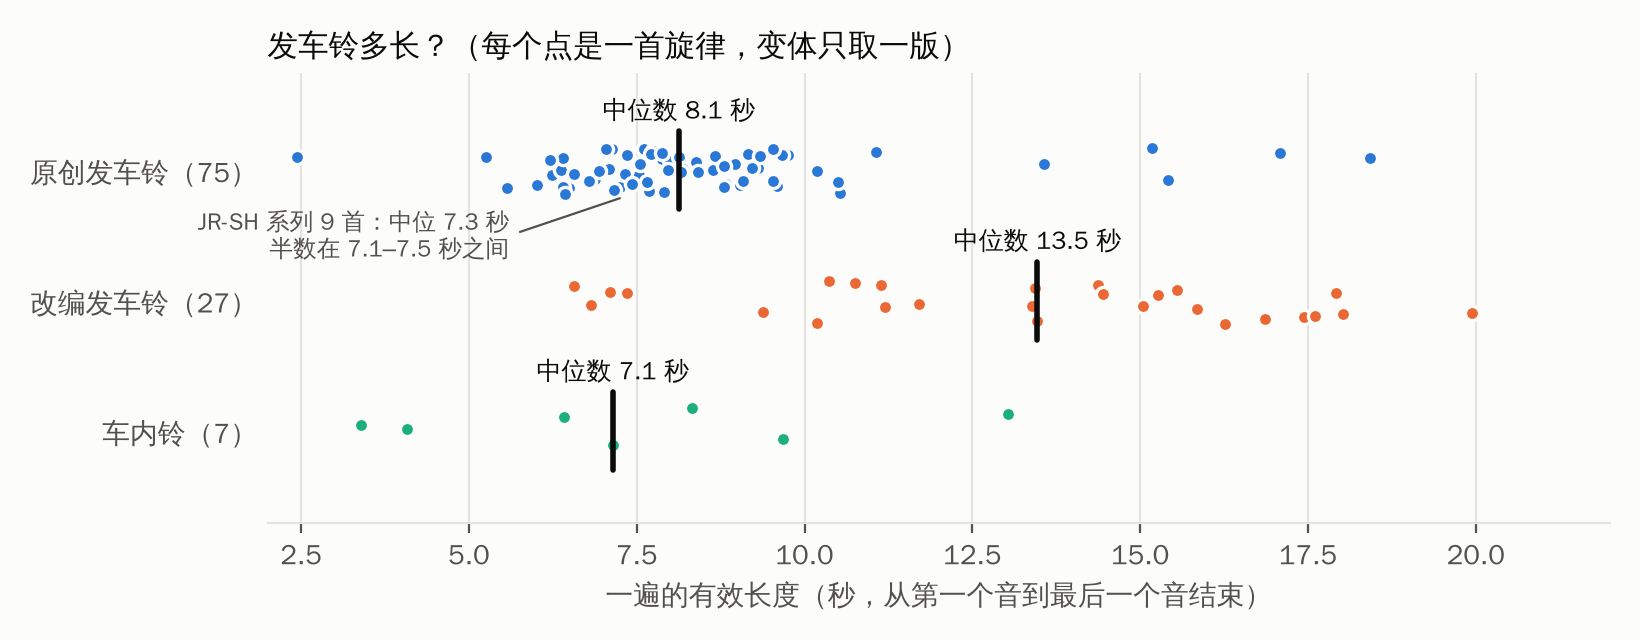
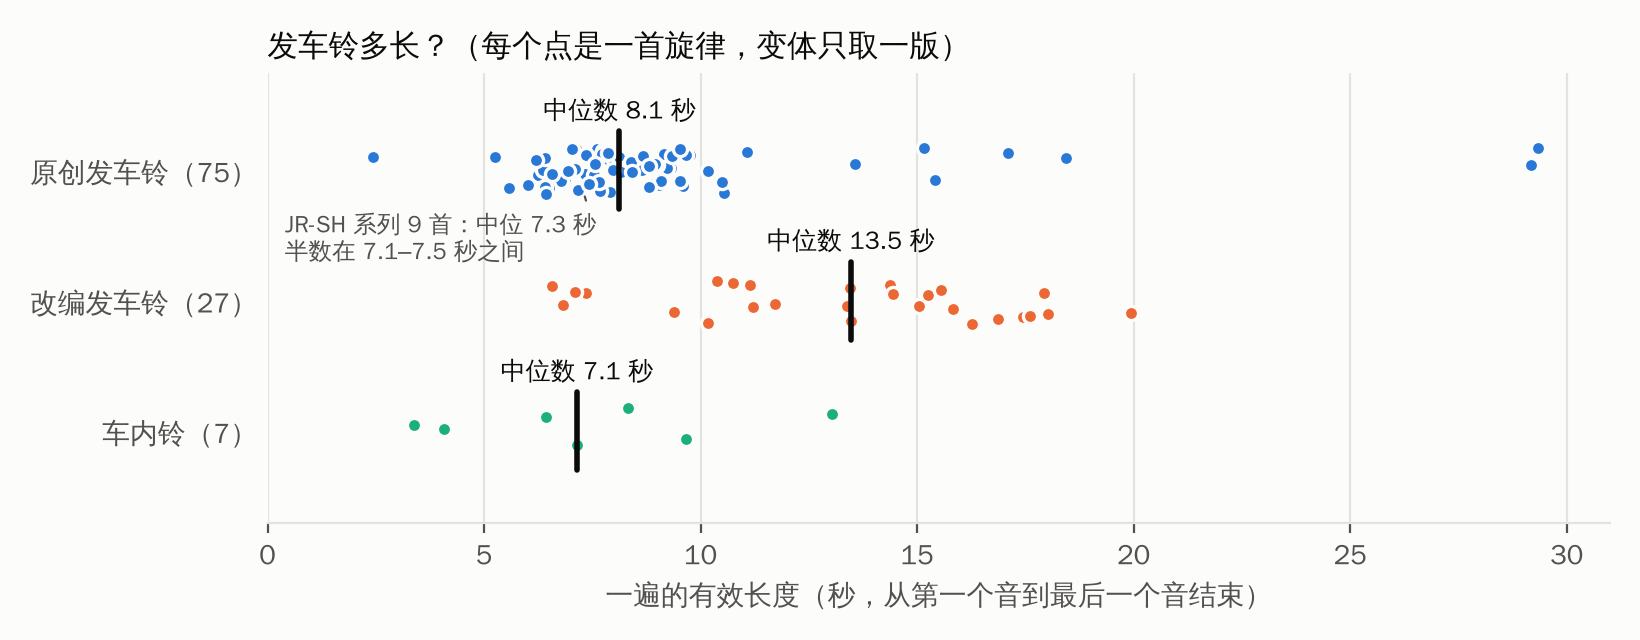
Show the full length range in fig_length.png
The x axis stopped at 22 s, so A Sea Bird and Sea Green (about 29 s
each) fell outside the plot. The axis now follows the longest melody,
and the JR-SH note moved to the left so it stays clear of the dots.

Claude-Session: https://claude.ai/code/session_01HCVWgGavpkw1Mb9kidRFE9

diff --git a/analysis/charts.py b/analysis/charts.py
@@ -51,12 +51,15 @@ def length_figure(groups) -> None:
         if jr:
             q1, q2, q3 = np.percentile(jr, [25, 50, 75])
             ax.annotate(f"JR-SH 系列 {len(jr)} 首：中位 {q2:.1f} 秒\n半数在 {q1:.1f}–{q3:.1f} 秒之间", xy=(q2, y - 0.2),
-                        xytext=(5.6, y - 0.5), fontsize=8.5, color=INK2, va="center", ha="right",
+                        xytext=(0.4, y - 0.52), fontsize=8.5, color=INK2, va="center", ha="left",
                         arrowprops={"arrowstyle": "-", "color": INK2, "linewidth": 0.8, "relpos": (1.0, 0.5)})
     ax.set_yticks(range(len(groups)))
     ax.set_yticklabels([f"{n}（{len(r)}）" for n, r in reversed(list(groups.items()))])
     ax.set_xlabel("一遍的有效长度（秒，从第一个音到最后一个音结束）")
-    ax.set_xlim(2, 22)
+    # the axis follows the data, so the longest melodies (about 29 s) are never cut off
+    longest = max(float(r["span_s"]) for rows in groups.values() for r in rows)
+    ax.set_xlim(0, np.ceil(longest) + 1)
+    ax.set_xticks(np.arange(0, np.ceil(longest) + 1, 5))
     ax.set_ylim(-0.7, len(groups) - 0.25)
     ax.grid(axis="x", color=GRID, linewidth=0.8)
     ax.set_axisbelow(True)
